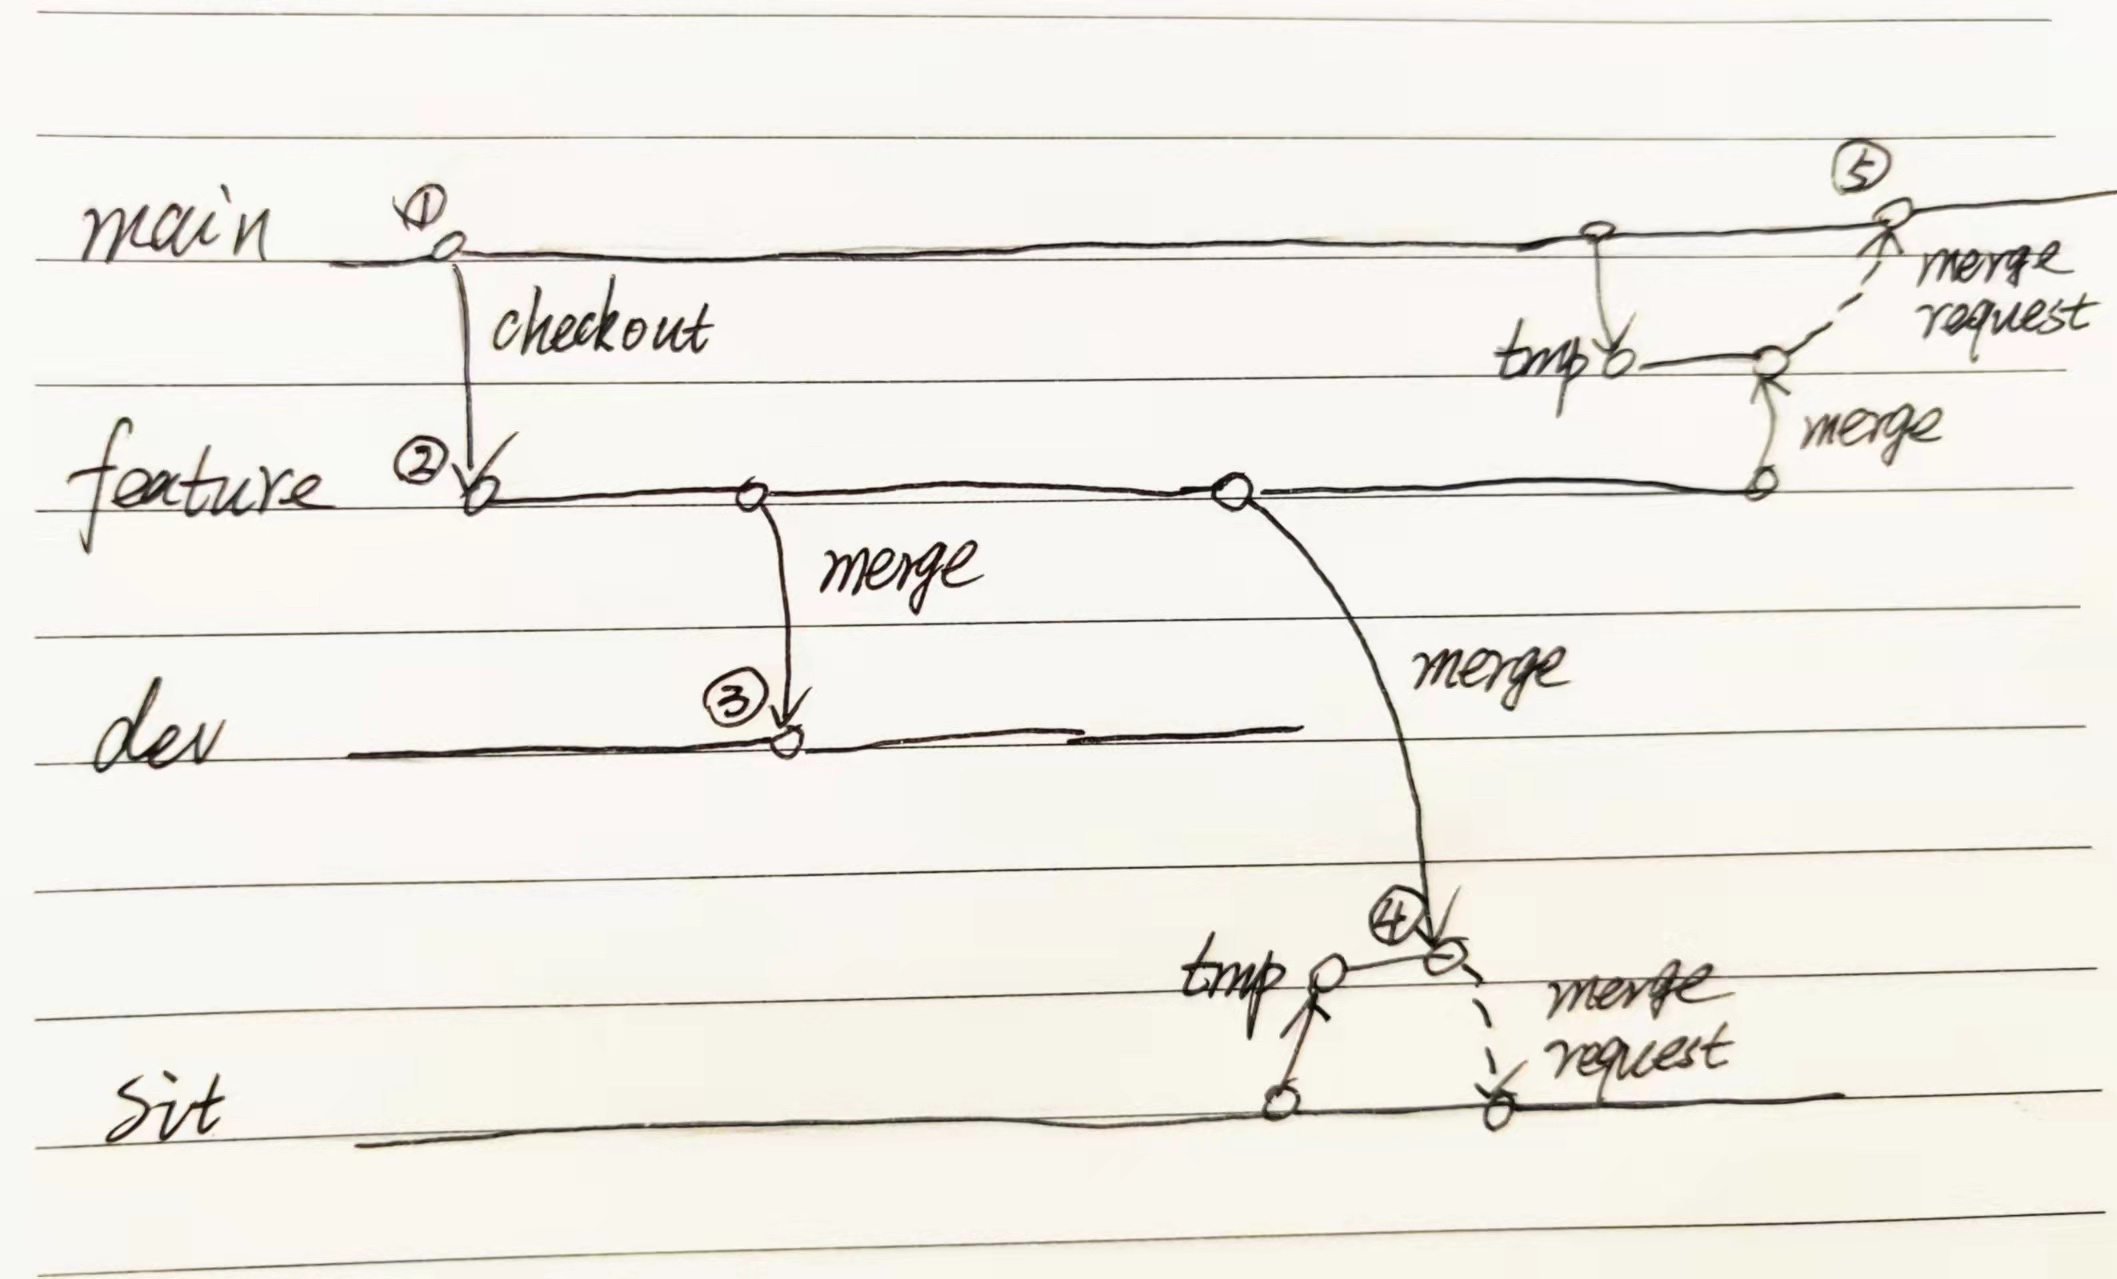
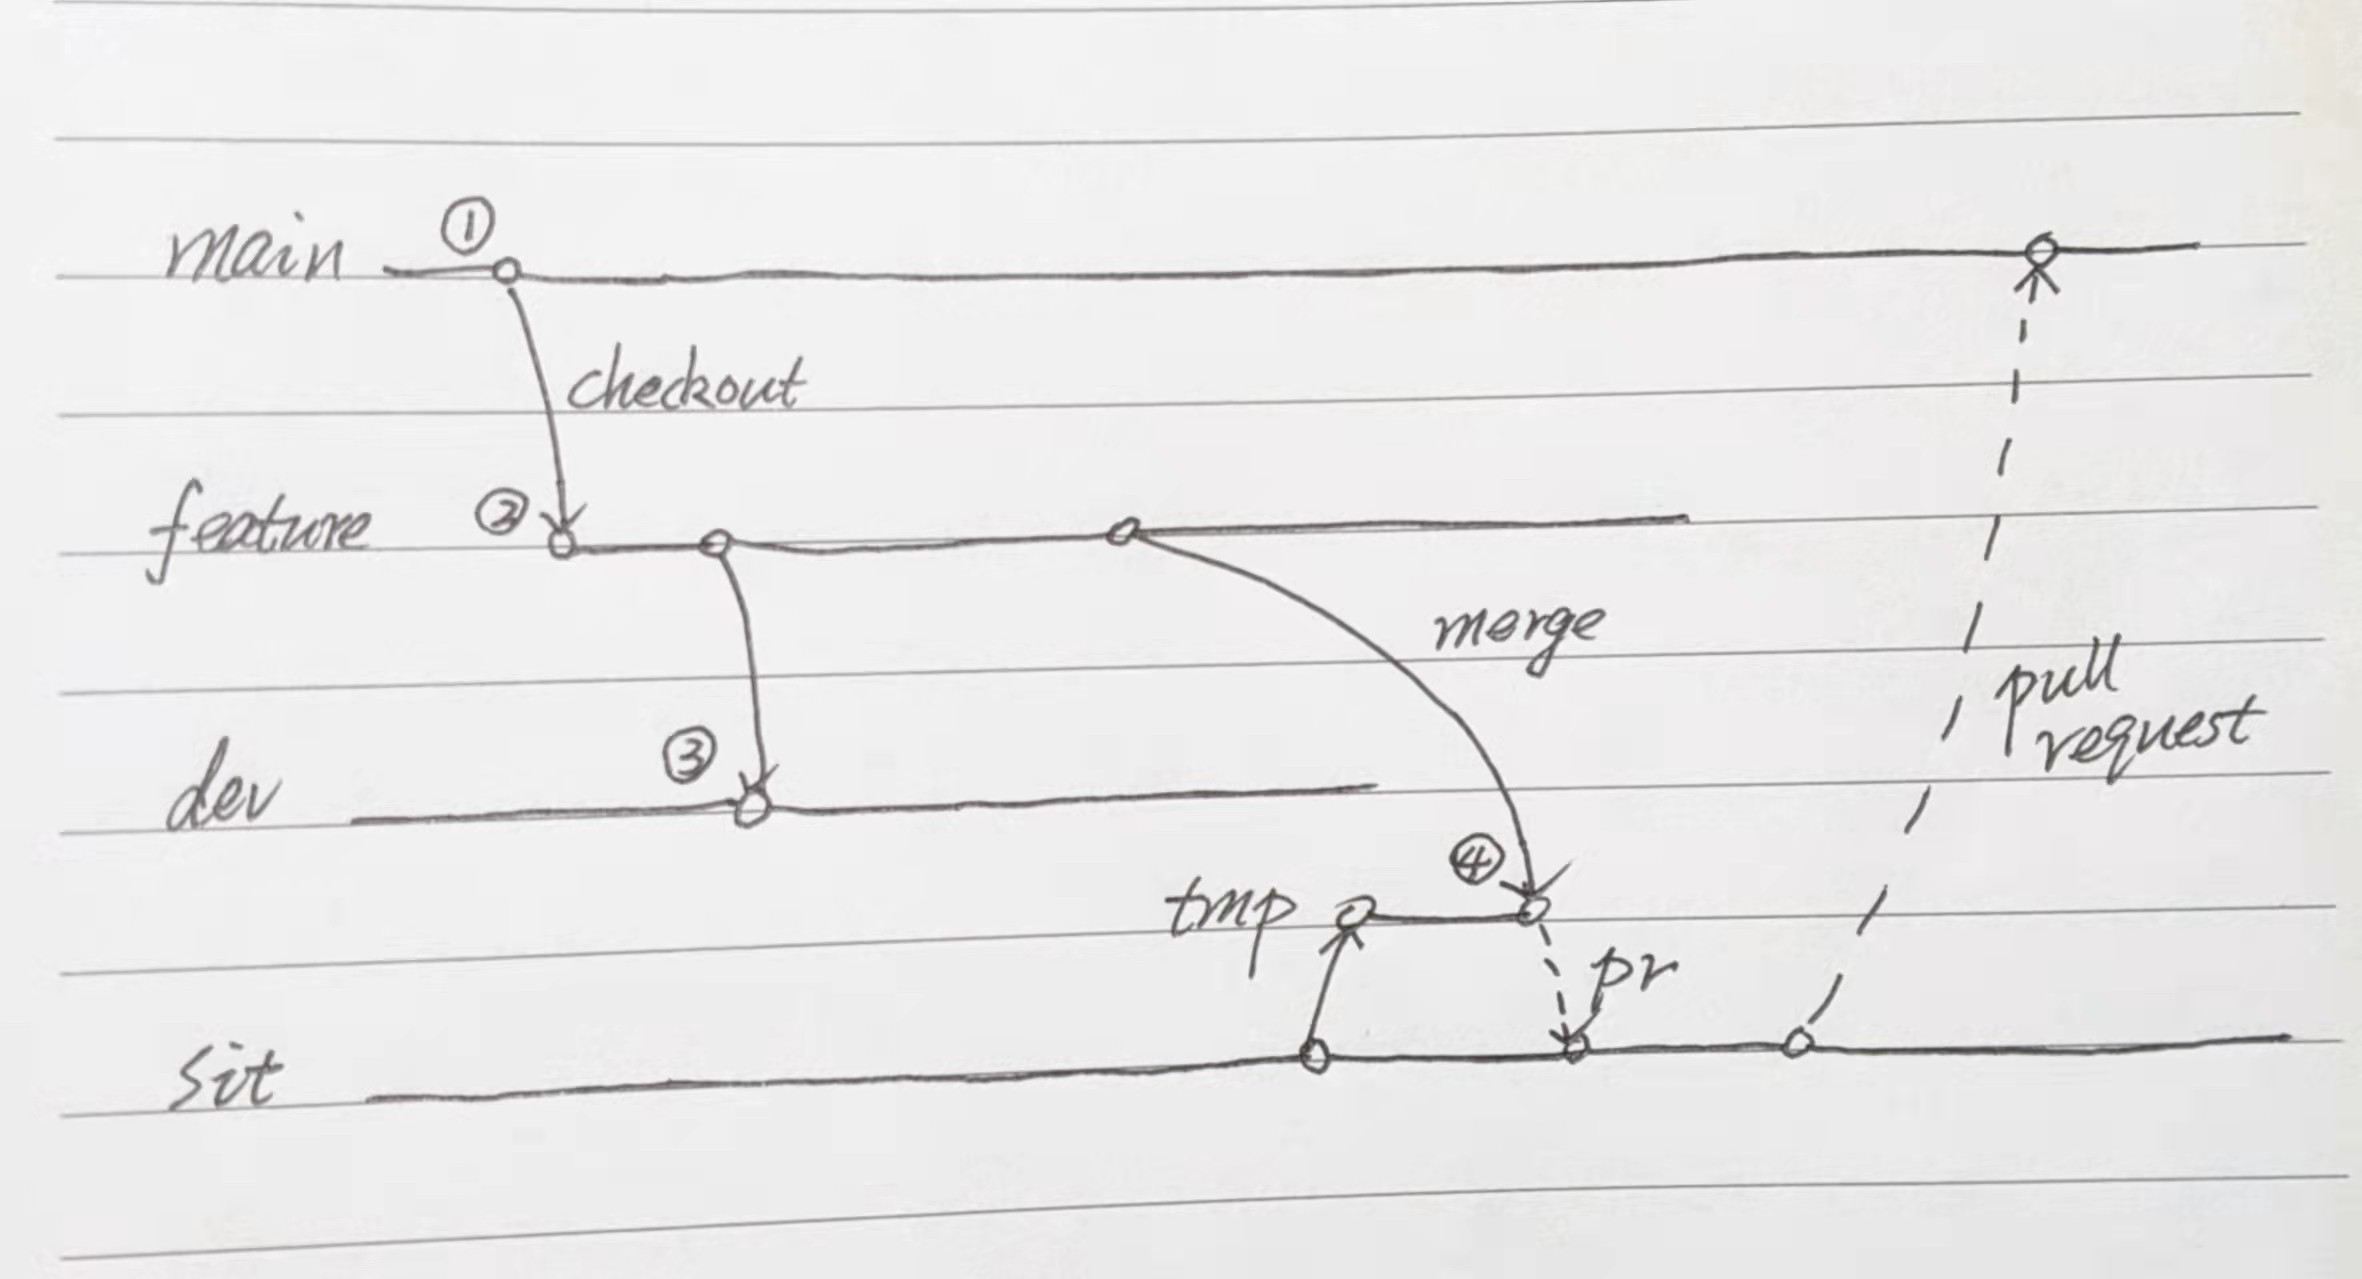
Update

diff --git a/_posts/2022-02-11-git-practise.md b/_posts/2022-02-11-git-practise.md
@@ -3,7 +3,7 @@ title: API版本控制的Git流实践
 date: 2022-02-11 12:00:00 +0800
 layout: post
 current: post
-cover:  assets/images/covers/1271644035550_.pic_hd.jpg
+cover:  assets/images/covers/1381644665262_.pic.jpg
 navigation: True
 tags: [Git API Version]
 class: post-template
@@ -13,30 +13,27 @@ comments: true
 
 ---
 
-本文意在梳理多人开发维护API版本的实践.
-
-流程如图
+本文意在梳理多人开发场景下,管理API版本的实践.此处API是指在Spring开发过程中,server所依赖的api的版本.其他语言环境如有类似依赖,也可参考.
 
 ![git flow](/assets/img/2022/1321644590829.jpg)
 
-图中包含共6个分支,4条主要分支,2条临时分支.
+文中讨论的流程为了在开发过程中,避免api的冲突.话不多说先上图.图中包含共5个分支,3条常驻分支,一条功能分支和1条临时分支.dev和sit分支的作用可能与概念和实际场景存在差异,此处仅用于举例.
 
-五个序号标记点,每个标记点代表一次API版本的变更.
+- main分支,对应线上的代码
+- feature分支,代表开发新功能的分支
+- dev分支,代表测试联调分支,可能有多个feature同时开发并入
+- sit分支,持续集成测试介入分支.此处仅用于合并和测试上线的内容,真实场景sit分支可能存在多期内容同时测试,然后通过UAT分支来测实际上线内容
 
-① main正式环境版本号: x.y.1
+四个序号标记点,代表不同的API版本节点,以1.0.0为例.
 
-② feature开发分支独立版本号: x.y.2-SNAPSHOT
-
-③ dev联调分支版本号: DEV-SNAPSHOT
-
-④ sit测试分支版本号: SIT-SNAPSHOT
-
-⑤ main正式环境版本号: x.y.2
+① main: 1.0.0 ② feature: 1.0.1-SNAPSHOT ③ dev: DEV-SNAPSHOT ④ sit: 1.0.1
 
 git flow流程的解释
 
 1. 从main切出分支进行新功能开发
-2. 在API发生变更需求时,在feature分支将API版本号改成自己独占的版本号,此处需要工具限定或者内部协调,保证团队所有开发者此SNAPSHOT的认知和变更范围是一致的,不会引入此feature外的变更.
-3. 将feature功能合并到dev进行发布联调和自测.次分支是公用分支,所以为了避免不同feature之间对API的变更版本号的混乱,可统一成DEV-SNAPSHOT.feature合并到dev后在dev分支进行DEV-SNAPSHOT的部署更新.
-4. 同理来到提测环节,由于SIT分支收到保护,需要通过merge request的形式进行合并.所以需要先从SIT分支切出一个tmp分支,并入feature分支,同时把API的版本号在tmp分支上改为SIT-SNAPSHOT,并部署更新.提交merge quest合并到sit分支.
-5. 同理合并sit分支,最终合并到main分支完成变更,同时更新版本号的最终定版.
+2. 在API发生变更需求时,在feature分支将API版本号改成独占的版本号,保证变更范围仅受当前分支影响.此处需要工具限定或者内部协调,保证团队所有开发者认知一致.
+3. 将feature功能包含api变更合并到dev.此分支是公用分支,所以为了避免同时开发的feature分支对API的版本号造成混乱,可统一成DEV-SNAPSHOT.并在合并后的dev进行DEV-SNAPSHOT api的部署.囊括此api所有的变更.
+4. 当dev分支测试充分后,来到预上线的环节.由于SIT分支受到保护,需要通过merge request的形式进行合并.所以需要先从SIT分支切出一个tmp分支,并入feature分支,解决冲突后,把API的版本号在tmp分支上改为定版的1.0.1,并提交部署做最后上线前的测试.
+5. 测试完成准备发线上后,将sit分支以PR的形式并入依旧受保护的main分支.有些公司main分支仅做归档,就会通过UAT或其他分支发布.
+
+以上就是针开发过程中API命名方案的实践.同时如果server依赖多个api,那就需要维护好server与多个api分支的依赖关系,避免上线过程中的遗漏.对于这种情况如有更好的管理方式或者本文的其他疑问均欢迎邮件讨论.
